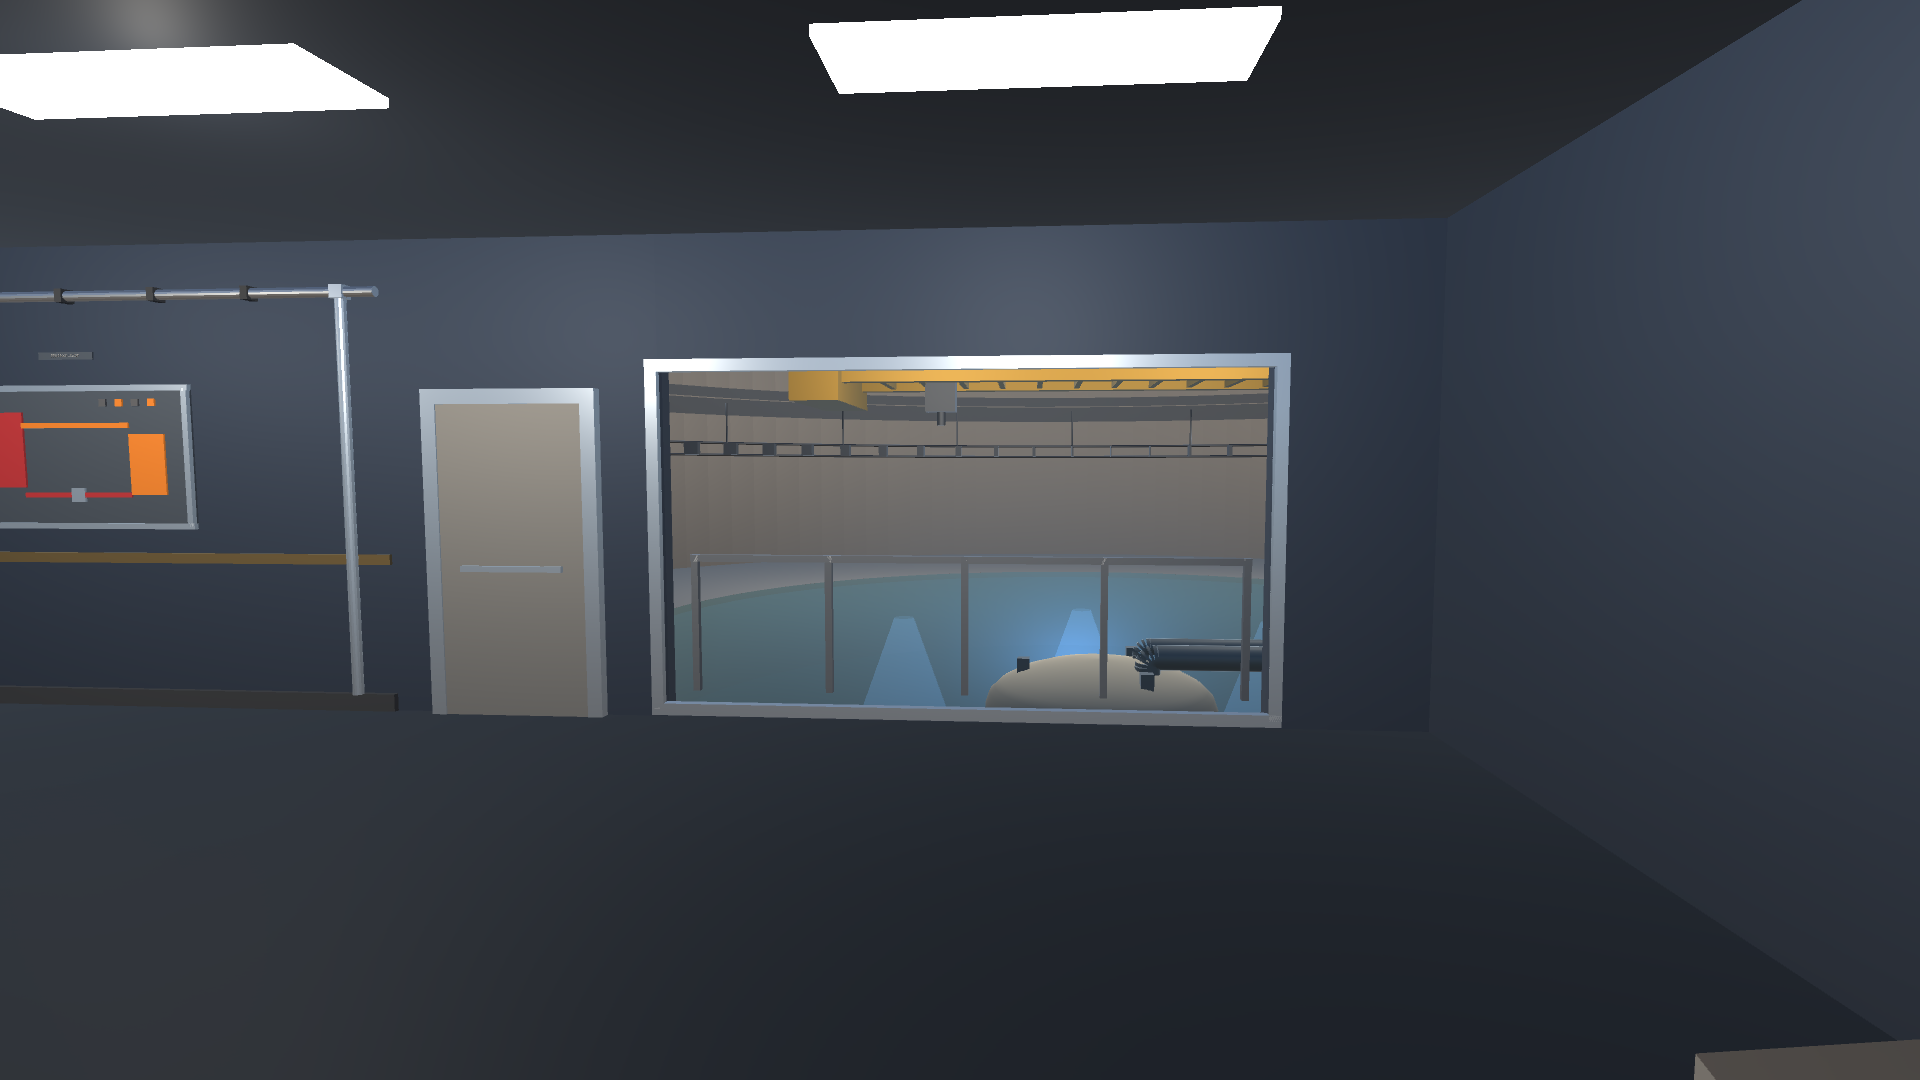
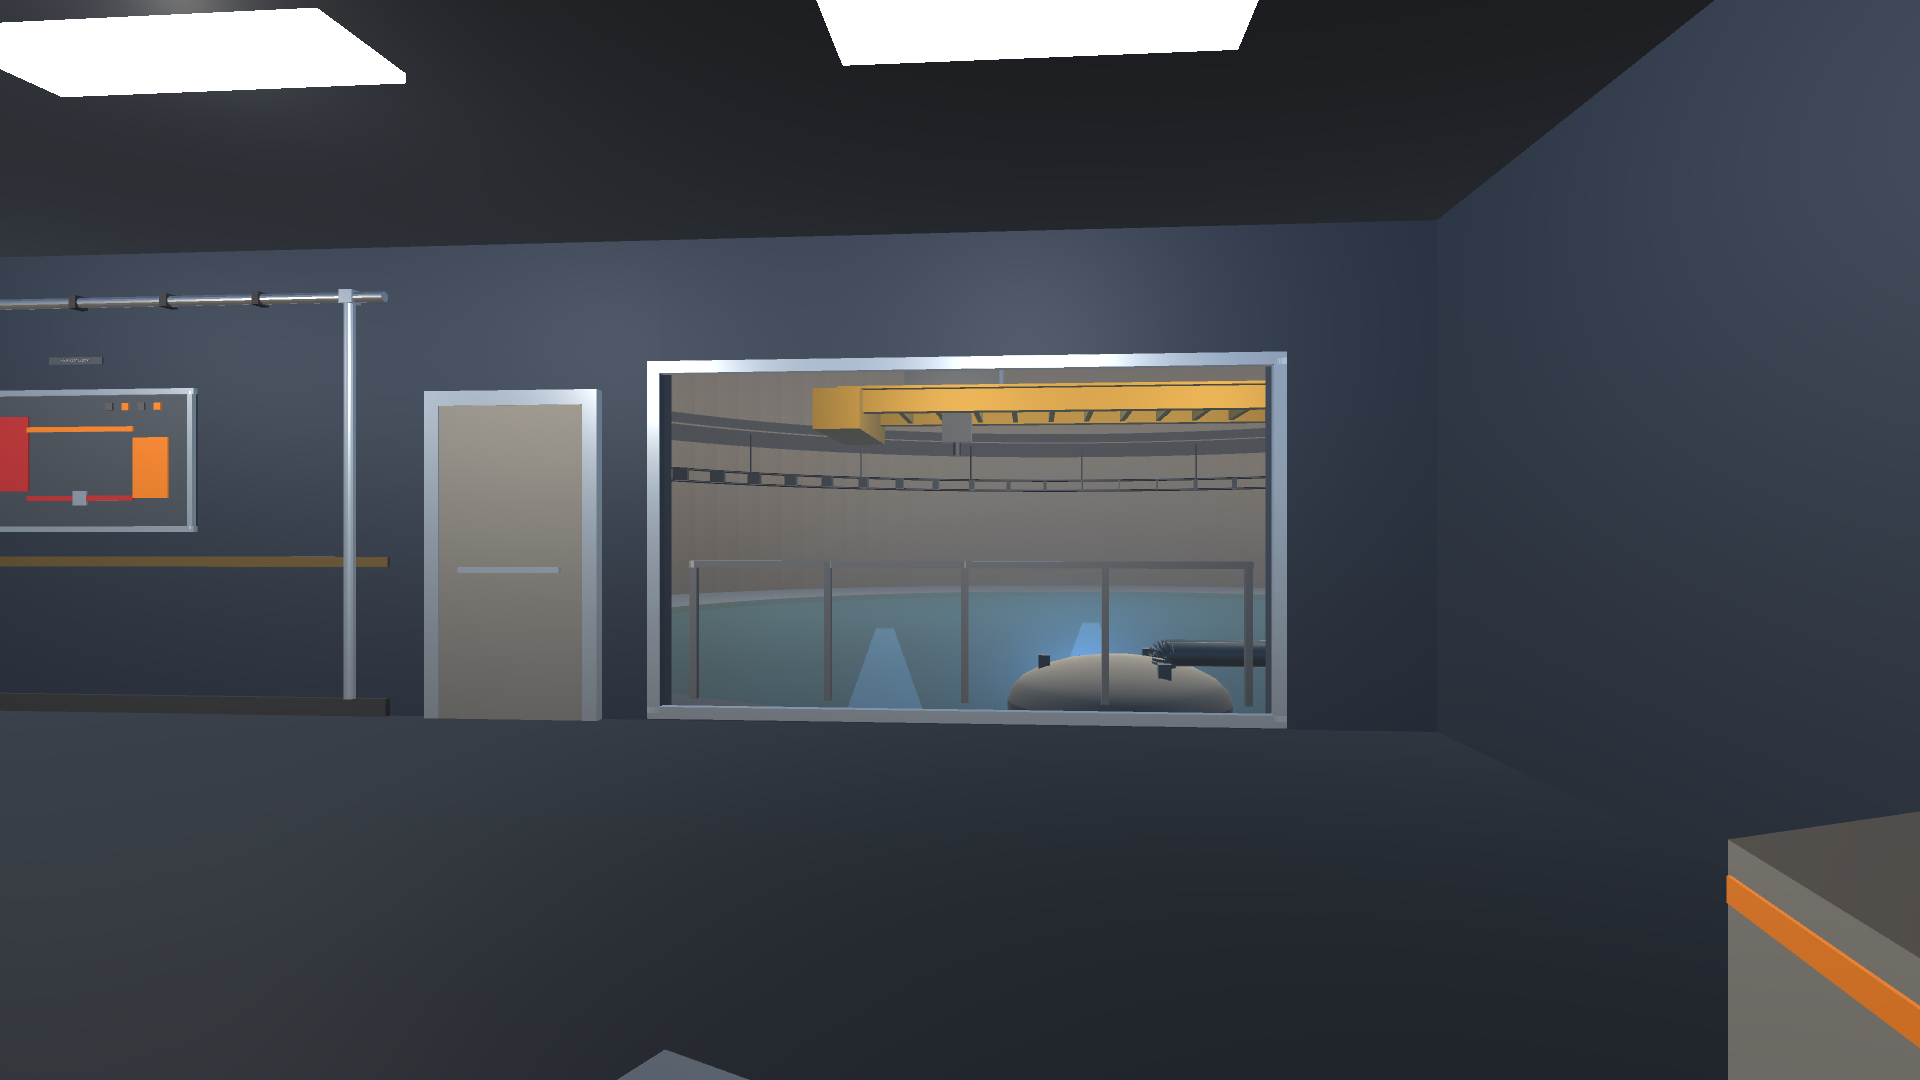
docs: README screenshots from the seated-eye geometry
Claude-Session: https://claude.ai/code/session_01GF7kHSU89GJLpkK1p3Gapp

diff --git a/README.md b/README.md
@@ -6,9 +6,9 @@ physics is built from published reactor engineering, but it is a game, not a lic
 
 ![Standing in the control room: hanging section signs, gauges, CRT pages and switch gear on the curved panel wall](docs/media/control-room-standing.png)
 
-| Observation window, from the standing position | Observation window, from the seat position |
+| Observation window, from the standing position | Observation window, from the seat (seated eye height) |
 |---|---|
-| ![Through the observation window: the domed containment head of the reactor module just under the pool water at the lower left, a steam stub, the gallery railing and the parked overhead crane](docs/media/hall-window-standing.png) | ![The same window from the seat position at standing eye height: the top of the module head and a steam stub past the gallery railing, the hall wall behind](docs/media/hall-window-seated.png) |
+| ![Through the observation window: the domed containment head and upper shoulder of the reactor module just under the pool water at the lower left, a steam stub, the gallery railing and the parked overhead crane](docs/media/hall-window-standing.png) | ![The same window from a camera at the seat position at seated eye height: the whole dome of the module head and a steam stub past the gallery railing, with the crane and hall wall behind](docs/media/hall-window-seated.png) |
 
 ![Top-down view of the control room: the console arc and the coloured section markers on the floor](docs/media/control-room-top.png)
 
@@ -27,7 +27,7 @@ physics is built from published reactor engineering, but it is a game, not a lic
   plant state ([docs/STARTUP.md](docs/STARTUP.md)).
 - **Control room.** Diegetic switches, gauges, annunciators and CRT pages, with an observation window onto a
   true-scale small-modular-reactor module in a 22 m deep refuelling pool (its head is checked to show over the pool
-  rim from both the standing and the seat position in `HallSightline`); procedural audio; LAN co-op over TCP.
+  rim from both the standing and the seated eye in `HallSightline`); procedural audio; LAN co-op over TCP.
 - **Tooling.** JSON snapshots, an intent pipeline, an HTTP API, an stdio MCP bridge, JSONL logging and golden
   replay.
 
